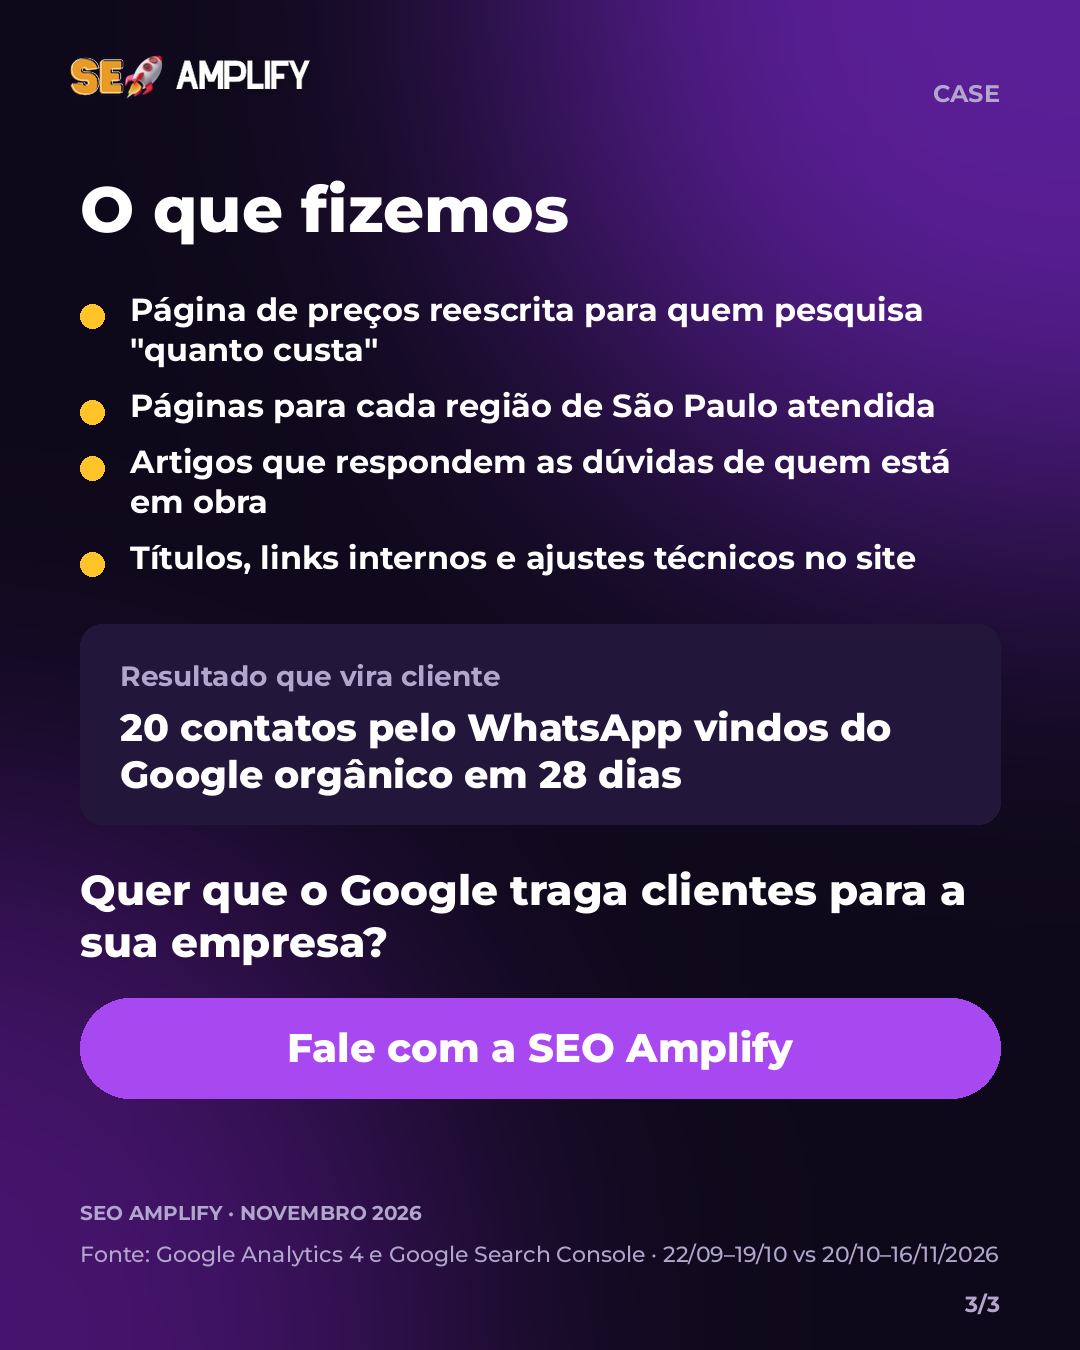
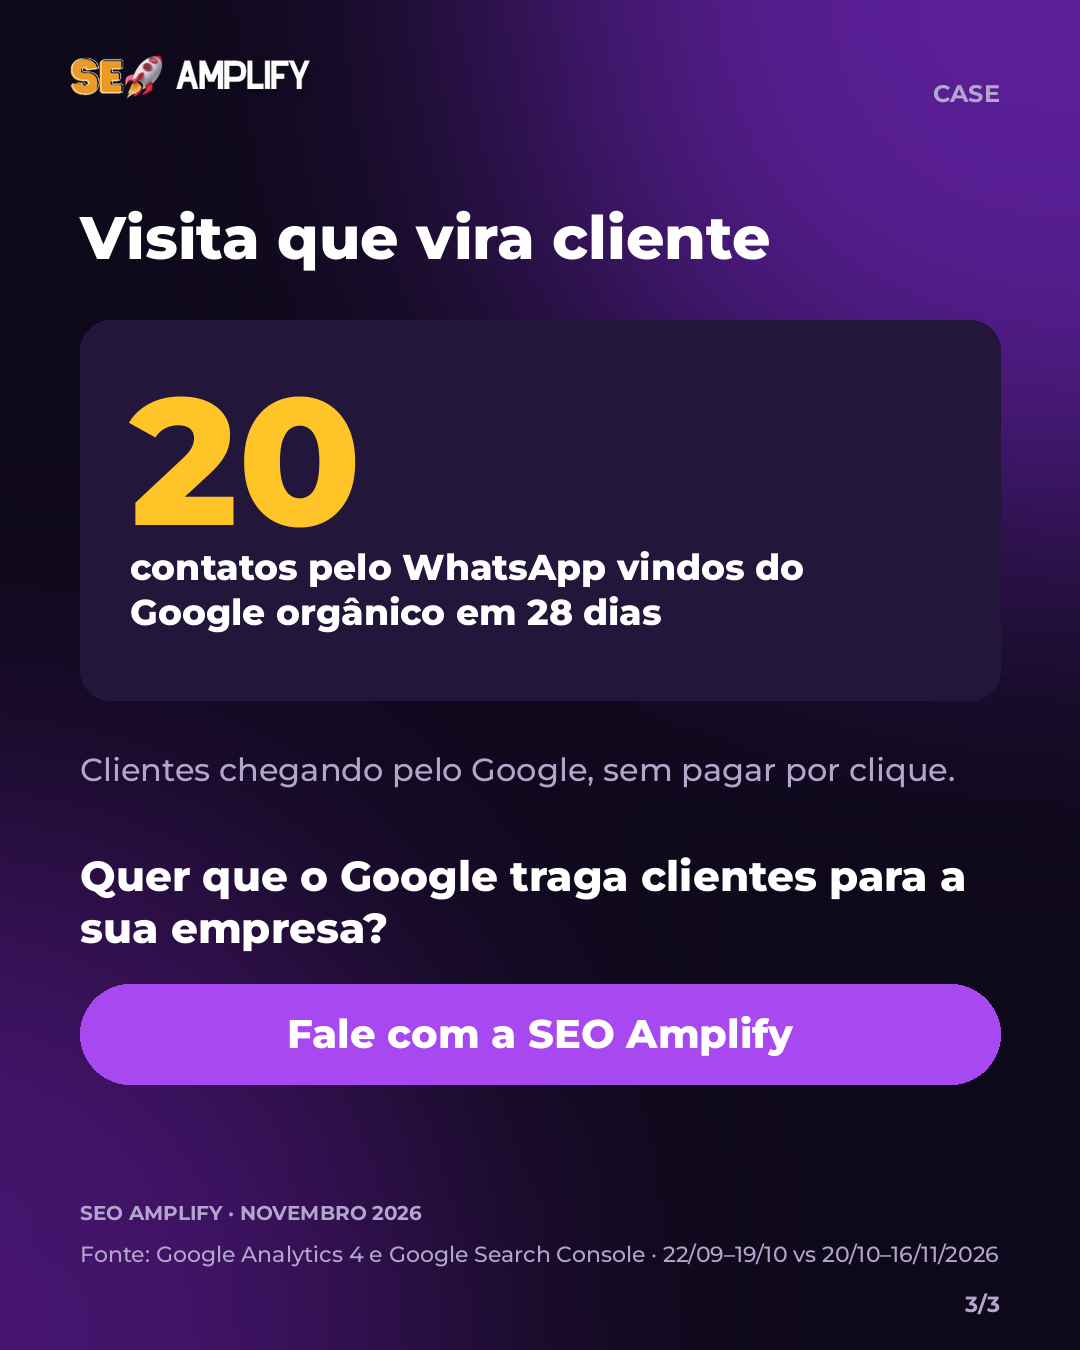
Post Andaimaq: tira a estratégia (O que fizemos) das artes e da legenda
Claude-Session: https://claude.ai/code/session_0119gFMjuzD9Z8t38qmvHADB

Changed region(s): [[0.0611, 0.4978, 0.9472, 0.84], [0.0611, 0.1244, 0.9472, 0.4667]]

diff --git a/andaimaq/instagram/gerar.py b/andaimaq/instagram/gerar.py
@@ -76,7 +76,6 @@ def kpis(d, y, gap=24, ch=190):
         y += ch + gap
     return y
 
-FEITO = ['Página de preços reescrita para quem pesquisa "quanto custa"', 'Páginas para cada região de São Paulo atendida', 'Artigos que respondem as dúvidas de quem está em obra', 'Títulos, links internos e ajustes técnicos no site']
 
 def capa(h, story=False):
     im, d = base(h); y = 300 if story else 180
@@ -101,16 +100,13 @@ def numeros(h, story=False):
     rodape(d, h, None if story else '2/3'); return im
 
 def fechamento(h, story=False):
-    im, d = base(h); y = 300 if story else 170
-    d.text((80, y), 'O que fizemos', font=F(800, 64), fill=TX); y += 120
-    for t in FEITO:
-        d.ellipse((80, y + 14, 104, y + 38), fill=OR1)
-        y = para(d, (130, y), t, F(700, 36 if story else 32), TX, 860) + (28 if story else 16)
-    y += 30
-    d.rounded_rectangle((80, y, 1000, y + 200), 22, fill=CARD)
-    d.text((120, y + 34), 'Resultado que vira cliente', font=F(700, 28), fill=MUT)
-    para(d, (120, y + 80), '20 contatos pelo WhatsApp vindos do Google orgânico em 28 dias', F(800, 38), TX, 820)
-    y += 330 if story else 240
+    im, d = base(h); y = 330 if story else 200
+    d.text((80, y), 'Visita que vira cliente', font=F(800, 64 if story else 60), fill=TX); y += 140 if story else 120
+    d.rounded_rectangle((80, y, 1000, y + (420 if story else 380)), 30, fill=CARD)
+    fz = F(800, 200 if story else 180); d.text((130, y + 30), '20', font=fz, fill=OR1)
+    para(d, (130, y + (250 if story else 225)), 'contatos pelo WhatsApp vindos do Google orgânico em 28 dias', F(800, 40 if story else 36), TX, 820)
+    y += (420 if story else 380) + 50
+    y = para(d, (80, y), 'Clientes chegando pelo Google, sem pagar por clique.', F(500, 36 if story else 32), MUT, 920) + (110 if story else 60)
     y = para(d, (80, y), 'Quer que o Google traga clientes para a sua empresa?', F(800, 48 if story else 42), TX, 920) + 30
     bh = 120 if story else 100
     d.rounded_rectangle((80, y, 1000, y + bh), bh // 2, fill=AC)
